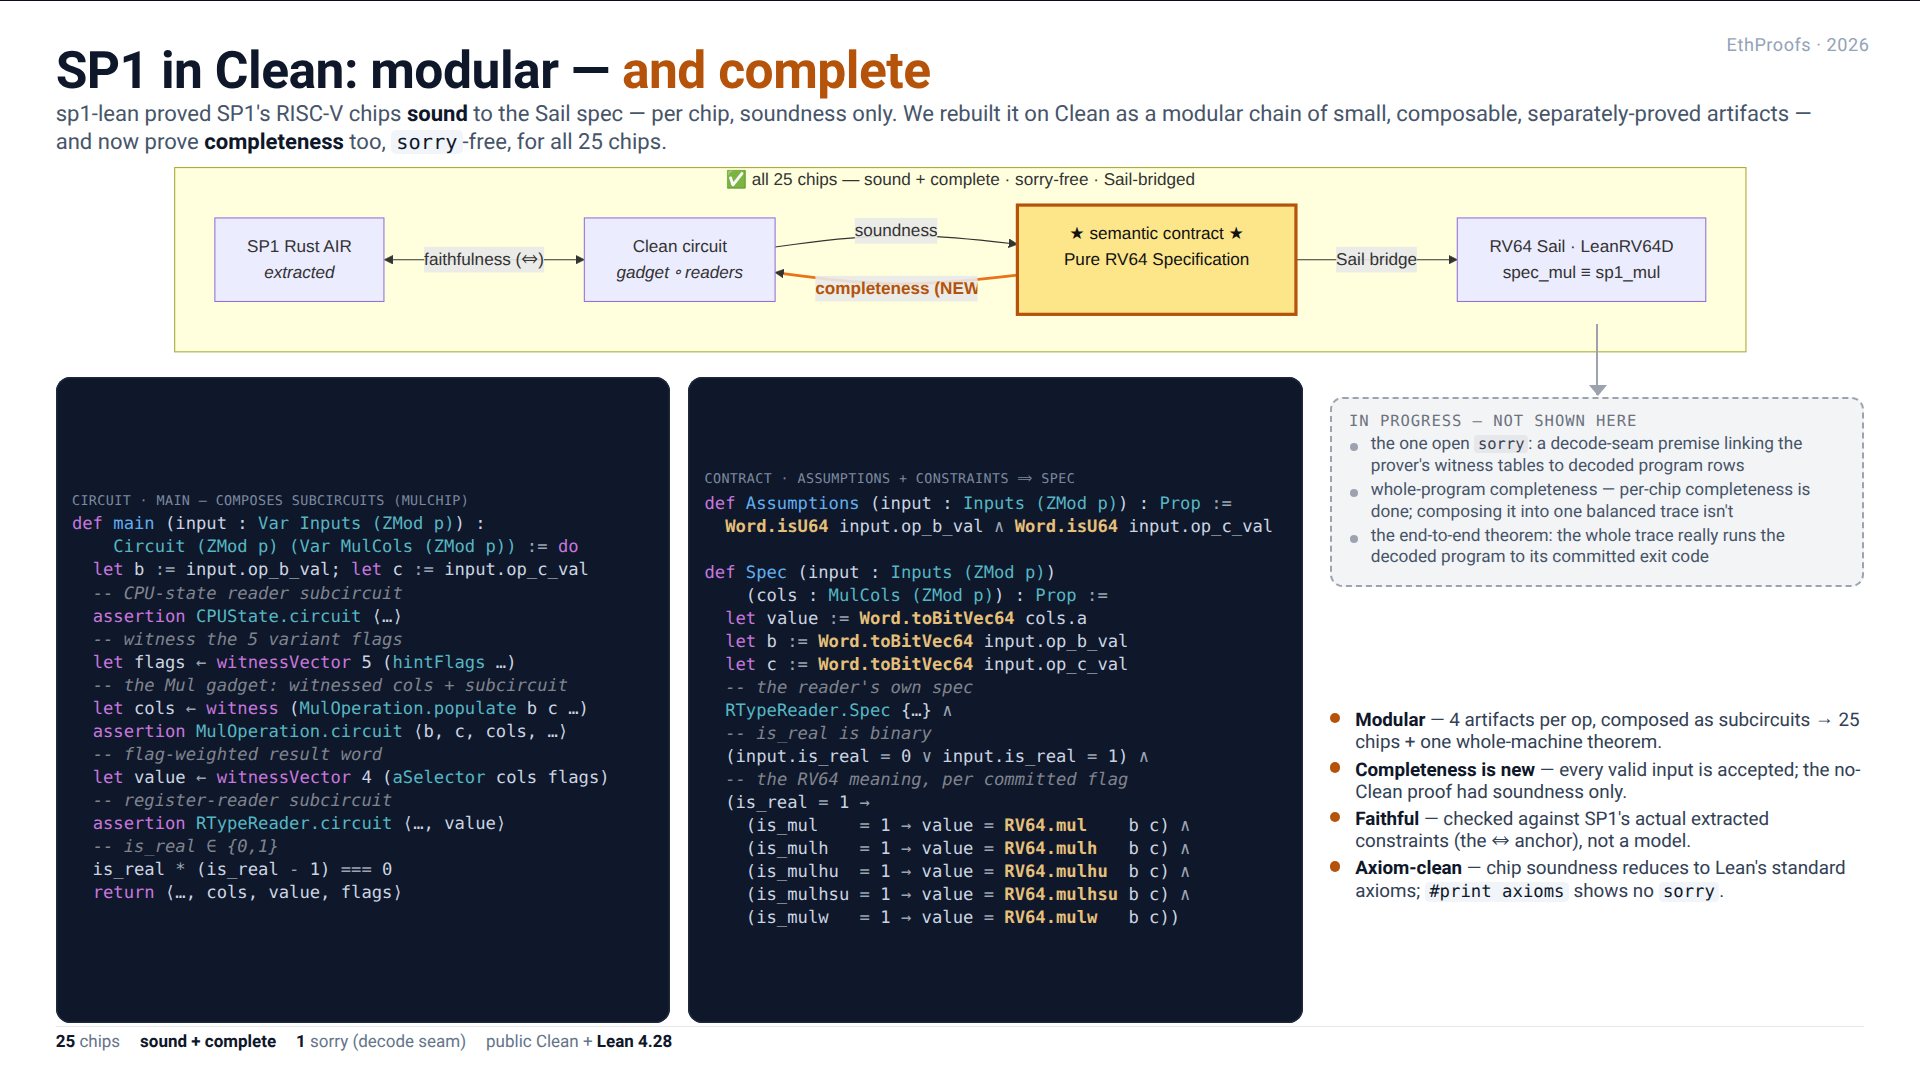
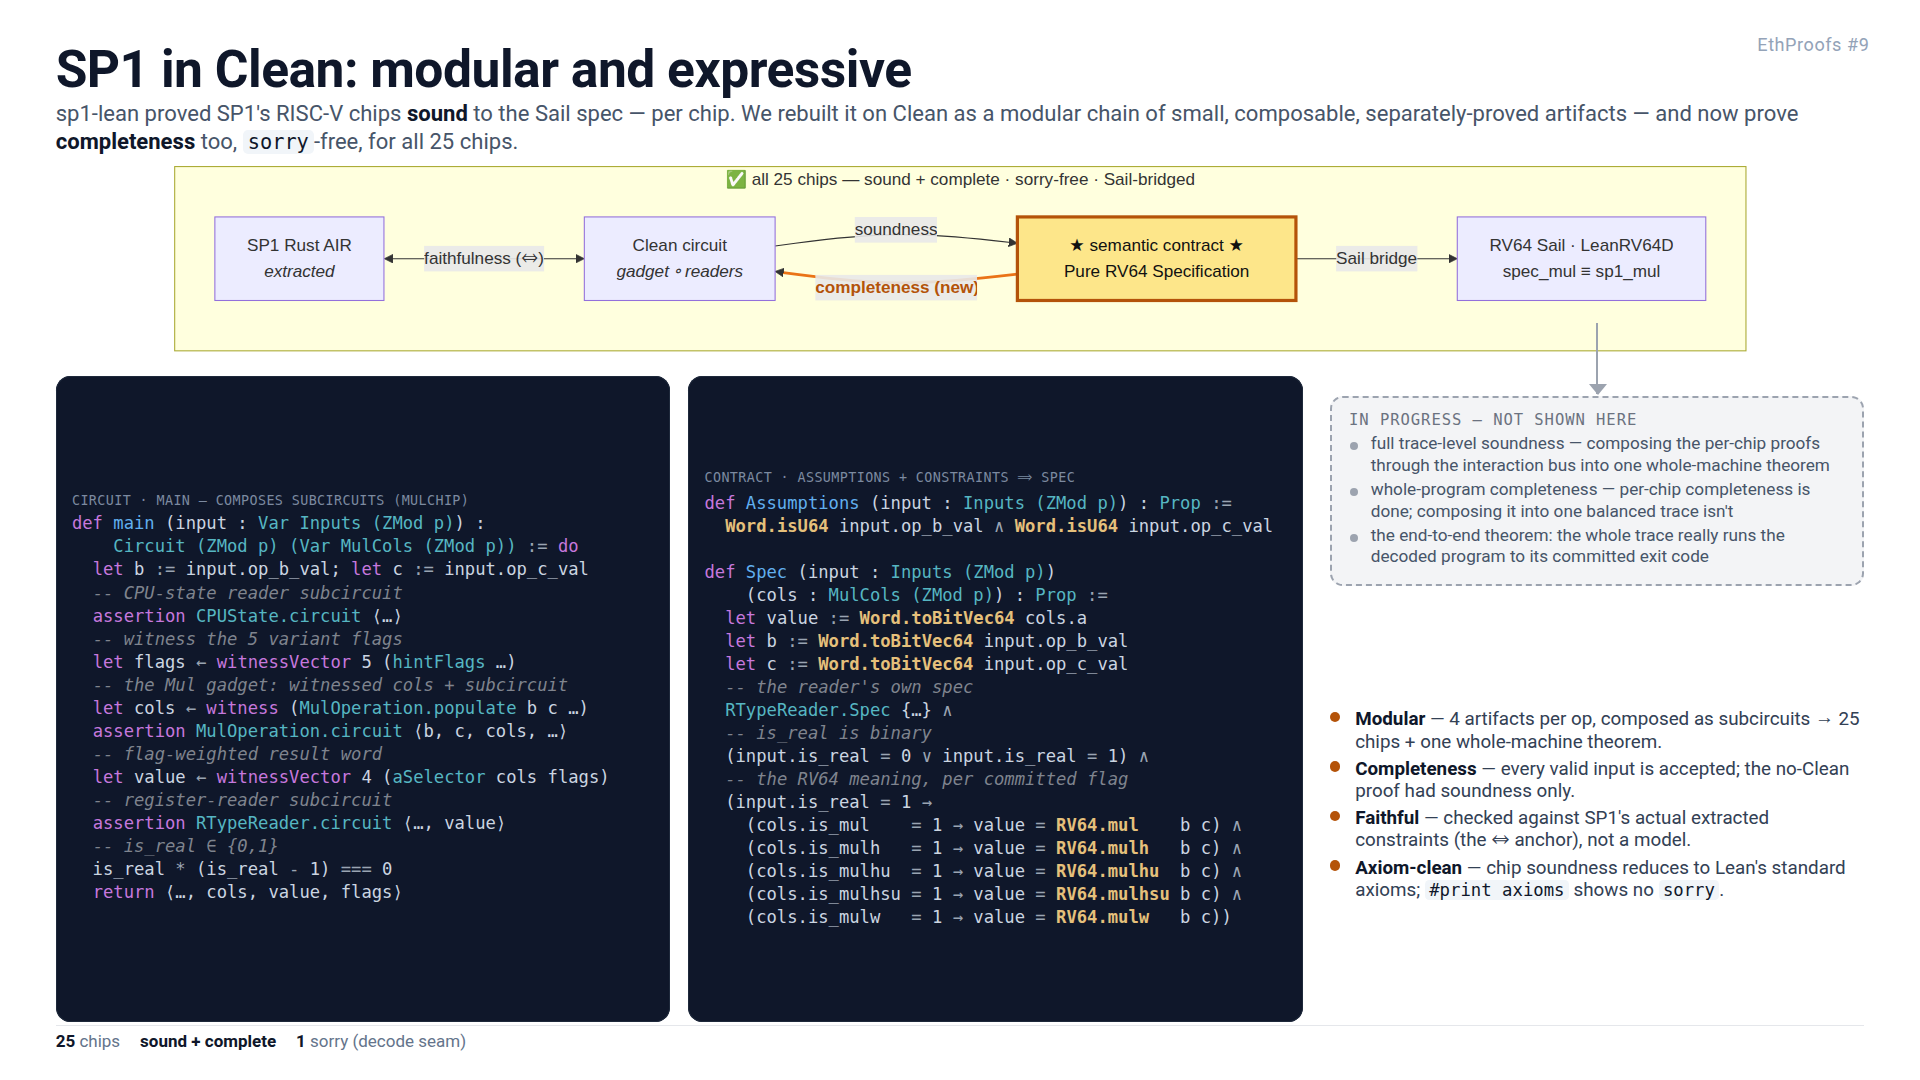
update slide spacing

diff --git a/docs/talks/ethproofs-2026-06-slide.html b/docs/talks/ethproofs-2026-06-slide.html
@@ -40,12 +40,12 @@ footer b{color:#0f172a}
 .points{margin-top:auto;margin-bottom:auto}
 </style></head><body>
 <section class="slide">
-<span class="tag">EthProofs · 2026</span>
-<h1>SP1 in Clean: modular — <span class="accent">and complete</span></h1>
-<p class="thesis">sp1-lean proved SP1's RISC-V chips <b>sound</b> to the Sail spec — per chip, soundness only. We rebuilt it on Clean as a modular chain of small, composable, separately-proved artifacts — and now prove <b>completeness</b> too, <code>sorry</code>-free, for all 25 chips.</p>
+<span class="tag">EthProofs #9</span>
+<h1>SP1 in Clean: modular and expressive</h1>
+<p class="thesis">sp1-lean proved SP1's RISC-V chips <b>sound</b> to the Sail spec — per chip. We rebuilt it on Clean as a modular chain of small, composable, separately-proved artifacts — and now prove <b>completeness</b> too, <code>sorry</code>-free, for all 25 chips.</p>
 <div class="body">
   <div class="chain">
[2 lines of base64/hex data omitted]
   <div class="code">
     <div class="panel">
       <div class="lbl">circuit · main — composes subcircuits (MulChip)</div>
@@ -82,29 +82,29 @@ footer b{color:#0f172a}
   <span class="c">-- is_real is binary</span>
   (input.is_real <span class="o">=</span> 0 <span class="o">∨</span> input.is_real <span class="o">=</span> 1) <span class="o">∧</span>
   <span class="c">-- the RV64 meaning, per committed flag</span>
-  (is_real <span class="o">=</span> 1 <span class="o">→</span>
-    (is_mul    <span class="o">=</span> 1 <span class="o">→</span> value <span class="o">=</span> <span class="m">RV64.mul</span>    b c) <span class="o">∧</span>
-    (is_mulh   <span class="o">=</span> 1 <span class="o">→</span> value <span class="o">=</span> <span class="m">RV64.mulh</span>   b c) <span class="o">∧</span>
-    (is_mulhu  <span class="o">=</span> 1 <span class="o">→</span> value <span class="o">=</span> <span class="m">RV64.mulhu</span>  b c) <span class="o">∧</span>
-    (is_mulhsu <span class="o">=</span> 1 <span class="o">→</span> value <span class="o">=</span> <span class="m">RV64.mulhsu</span> b c) <span class="o">∧</span>
-    (is_mulw   <span class="o">=</span> 1 <span class="o">→</span> value <span class="o">=</span> <span class="m">RV64.mulw</span>   b c))</pre>
+  (input.is_real <span class="o">=</span> 1 <span class="o">→</span>
+    (cols.is_mul    <span class="o">=</span> 1 <span class="o">→</span> value <span class="o">=</span> <span class="m">RV64.mul</span>    b c) <span class="o">∧</span>
+    (cols.is_mulh   <span class="o">=</span> 1 <span class="o">→</span> value <span class="o">=</span> <span class="m">RV64.mulh</span>   b c) <span class="o">∧</span>
+    (cols.is_mulhu  <span class="o">=</span> 1 <span class="o">→</span> value <span class="o">=</span> <span class="m">RV64.mulhu</span>  b c) <span class="o">∧</span>
+    (cols.is_mulhsu <span class="o">=</span> 1 <span class="o">→</span> value <span class="o">=</span> <span class="m">RV64.mulhsu</span> b c) <span class="o">∧</span>
+    (cols.is_mulw   <span class="o">=</span> 1 <span class="o">→</span> value <span class="o">=</span> <span class="m">RV64.mulw</span>   b c))</pre>
     </div>
   </div>
   <div class="right">
     <div class="ip-arrow"></div>
     <div class="inprogress">
       <div class="ip-title">in progress — not shown here</div>
-      <div class="ip">the one open <code>sorry</code>: a decode-seam premise linking the prover's witness tables to decoded program rows</div>
+      <div class="ip">full trace-level soundness — composing the per-chip proofs through the interaction bus into one whole-machine theorem</div>
       <div class="ip">whole-program completeness — per-chip completeness is done; composing it into one balanced trace isn't</div>
       <div class="ip">the end-to-end theorem: the whole trace really runs the decoded program to its committed exit code</div>
     </div>
     <div class="points">
       <div class="pt"><b>Modular</b> — 4 artifacts per op, composed as subcircuits → 25 chips + one whole-machine theorem.</div>
-      <div class="pt"><b>Completeness is new</b> — every valid input is accepted; the no-Clean proof had soundness only.</div>
+      <div class="pt"><b>Completeness</b> — every valid input is accepted; the no-Clean proof had soundness only.</div>
       <div class="pt"><b>Faithful</b> — checked against SP1's actual extracted constraints (the ⇔ anchor), not a model.</div>
       <div class="pt"><b>Axiom-clean</b> — chip soundness reduces to Lean's standard axioms; <code>#print axioms</code> shows no <code>sorry</code>.</div>
     </div>
   </div>
 </div>
-<footer><span><b>25</b> chips</span><span><b>sound + complete</b></span><span><b>1</b> sorry (decode seam)</span><span>public Clean + <b>Lean 4.28</b></span></footer>
+<footer><span><b>25</b> chips</span><span><b>sound + complete</b></span><span><b>1</b> sorry (decode seam)</span></footer>
 </section></body></html>
